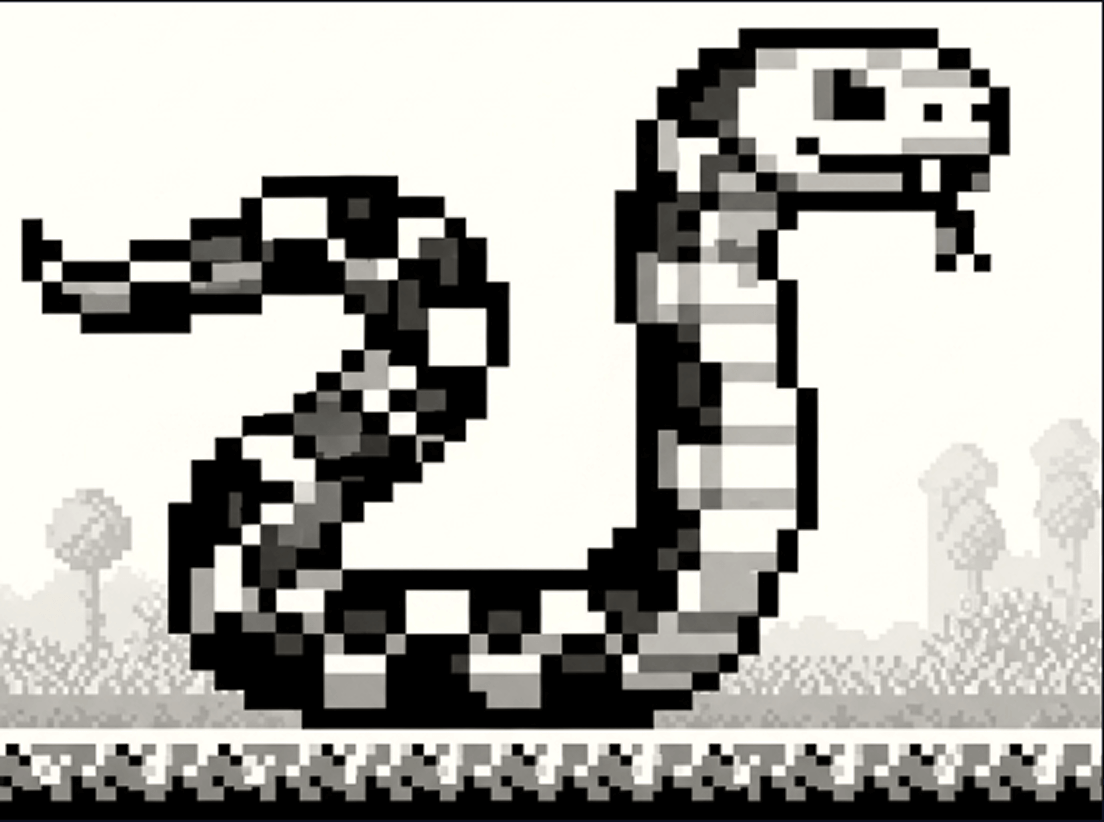
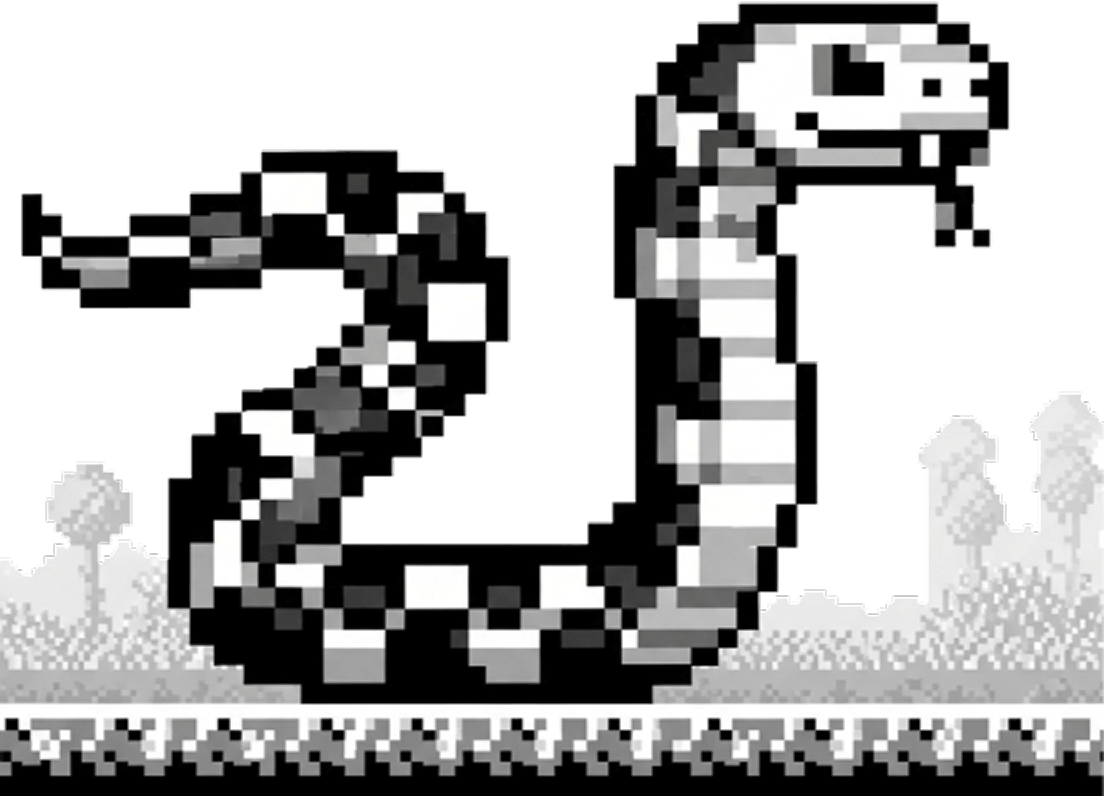
fix header and img

Changed region(s): [[0.0, 0.0, 1.0, 1.0], [0.0308, 0.5729, 0.1232, 0.7236], [0.8623, 0.5126, 0.8931, 0.5427]]

diff --git a/src/css/header.css b/src/css/header.css
@@ -1,11 +1,14 @@
 /*=================== Header Mobile =========================*/
 .section-header {
-  position: absolute;
+  position: fixed;
+  z-index: 99999;
   width: 100%;
   z-index: 99;
   padding-top: 14px;
   padding-bottom: 0;
-  background-color: transparent;
+  background-color: #f8f8f2;
+  padding-top: 14px;
+  padding-bottom: 14px;
 }
 .container-header {
   display: flex;
@@ -43,6 +46,8 @@
 @media screen and (min-width: 1200px) {
   .section-header {
     padding-top: 8px;
+    padding-bottom: 8px;
+    background-color: #f8f8f2;
   }
   .container-header {
     justify-content: center;
@@ -74,11 +79,13 @@
   }
   .header-nav-item {
     color: #0f1322;
+    background-color: #f8f8f2;
     border: 1px solid #0f1322;
     padding: 10px 24px;
     width: max-content;
     transition: background-color 250ms cubic-bezier(0.4, 0, 0.2, 1),
       color 250ms cubic-bezier(0.4, 0, 0.2, 1);
+    height: 44px;
   }
 
   .header-nav-item:hover,

diff --git a/src/partials/about.html b/src/partials/about.html
@@ -12,7 +12,7 @@
         src="/img/about/about-mobile@1x.png"
         alt="snake graphic"
         width="288"
-        height="229"
+        height="208"
       />
       <p class="about-text-first">
         Inspired by the rhythm and precision of the classic Snake game, Space
@@ -32,7 +32,7 @@
       src="/img/about/about@1x.png"
       alt="snake graphic"
       width="552"
-      height="411"
+      height="398"
     />
   </div>
 </section>

diff --git a/src/css/base.css b/src/css/base.css
@@ -31,11 +31,13 @@ body {
 .section {
   padding-top: 20px;
   padding-bottom: 20px;
+  scroll-margin-top: 60px;
 }
 
 @media screen and (min-width: 1200px) {
   .section {
     padding-top: 64px;
     padding-bottom: 64px;
+    scroll-margin-top: 112px;
   }
 }

diff --git a/src/css/styles.css b/src/css/styles.css
@@ -36,4 +36,7 @@
 
 @import url('./privacy-policy.css');
 @import url('./terms-and-conditions.css');
+@import url('./cookies-policy.css');
+
+
 

diff --git a/src/css/menu-modal.css b/src/css/menu-modal.css
@@ -51,6 +51,7 @@
 .modal-btn-close {
   background-color: transparent;
   border: none;
+  padding: 0;
 }
 
 .modal-btn-logo {
